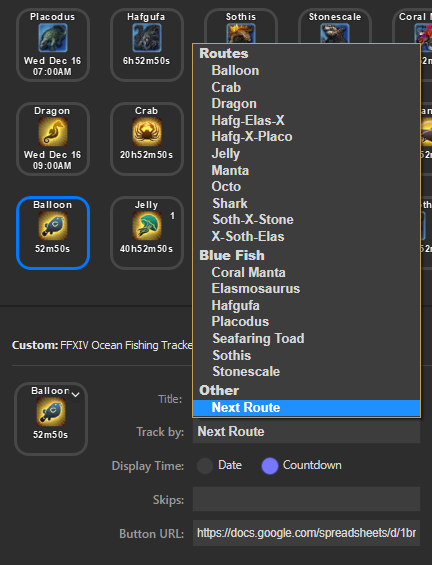
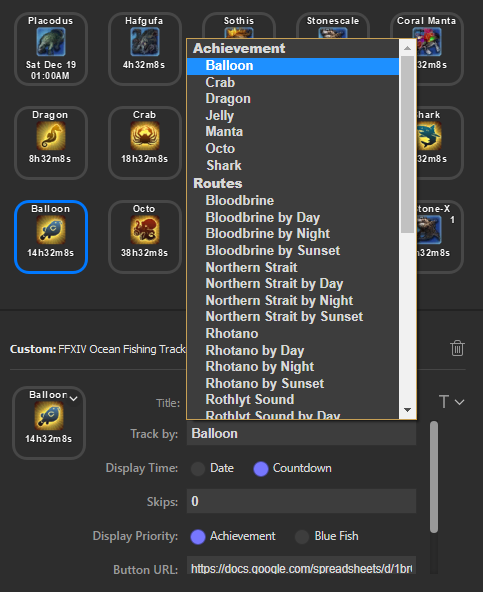
Update Readme, change version to v1.04
Update readme for the display priority option.
Change version number to v1.04

Changed region(s): [[0.0, 0.0, 1.0, 0.9929], [0.963, 0.1805, 1.0, 0.4814], [0.9329, 0.5717, 0.963, 0.6018]]

diff --git a/README.md b/README.md
@@ -41,7 +41,7 @@ The title is automatically set by the plugin to display the server name and prog
 
 `Track by:`
 
-Select either a Blue Fish or a Route to track. You can also select Next Route to display whatever is coming up next. Icons will be dynamically updated.
+Select either an Achievement, Blue Fish or a Route to track. You can also select Next Route to display whatever is coming up next. Icons will be dynamically updated.
 
 `Display Time:`
 
@@ -56,6 +56,14 @@ If set to a non-zero number, the selected value will be displayed in the top-rig
 In the image below, an example is shown where in the first two rows the next 5 upcoming windows for Coral Manta and Stonescale are shown. The last row shows what the next 5 routes will be in general.
 
 ![](skips.png)
+
+`Display Priority:`
+
+If tracking by Routes or by Next Route, this option will prioritize displaying either the Achievement or the Blue Fish of that route.
+
+Note that if a route has no Achievement, it will always just display the Blue Fish for that route. Similarly, if the route has no Blue Fish, it will fall back to displaying any Achievements in that route.
+
+This option has no effect if tracking by Achievements or Blue Fish directly.
 
 `Button URL:`
 
